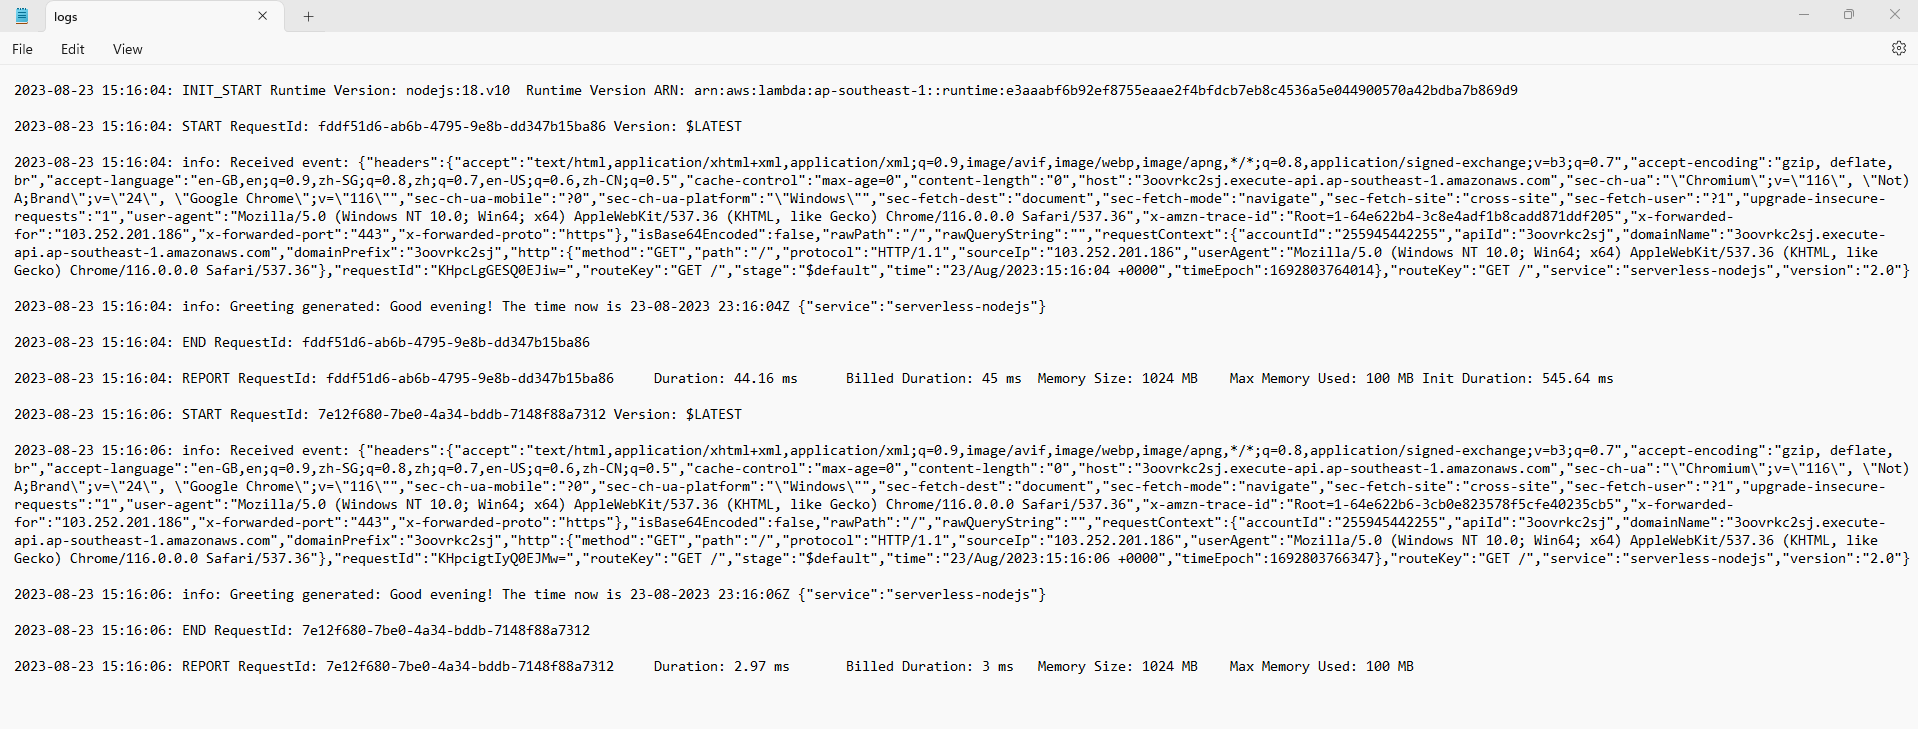
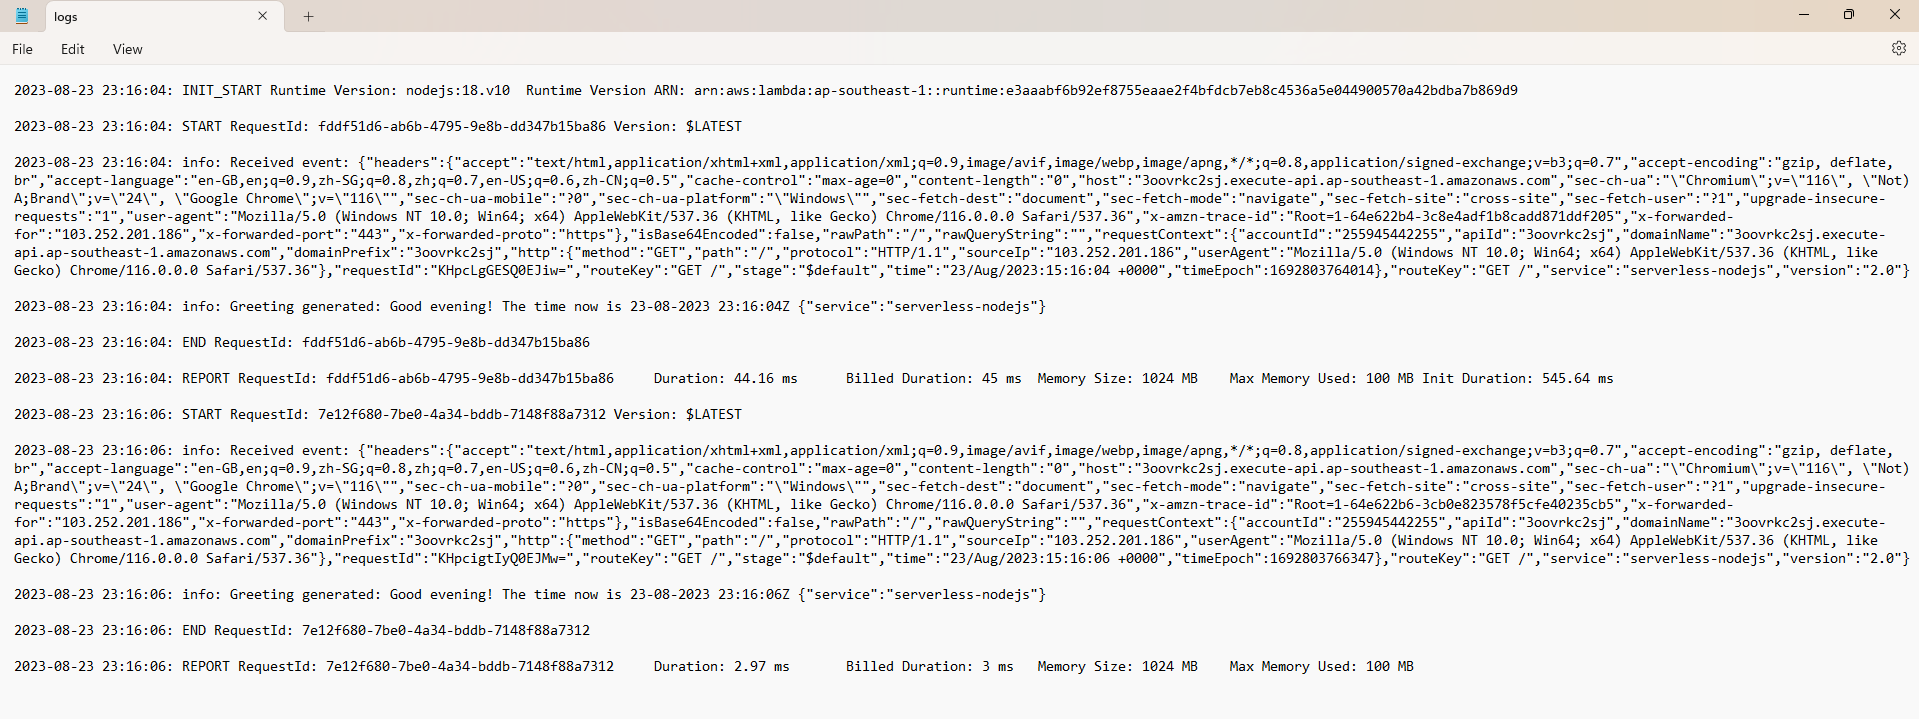
add logging

diff --git a/README.md b/README.md
@@ -387,7 +387,7 @@ aws logs get-log-events --log-group-name /aws/lambda/wengsiong-serverless-nodejs
 
 1. Alternatively, run the following command to export the logging information to a file.
 ```bash
-aws logs get-log-events --log-group-name /aws/lambda/wengsiong-serverless-nodejs-api-dev-greeting --log-stream-name '2023/08/23/[$LATEST]810e9c5a48d542f4980dd69b8e7d90eb' | jq -r '.events[] | "\( (.timestamp / 1000 | strftime("%Y-%m-%d %H:%M:%S")) ): \(.message)"' > logs.txt
+aws logs get-log-events --log-group-name /aws/lambda/wengsiong-serverless-nodejs-api-dev-greeting --log-stream-name '2023/08/23/[$LATEST]810e9c5a48d542f4980dd69b8e7d90eb' | jq -r '.events[] | "\( ((.timestamp / 1000) + (8 * 3600) | strftime("%Y-%m-%d %H:%M:%S")) ): \(.message)"' > logs.txt
 ```
 - The `jq` command is used to format the output of the `aws logs get-log-events` command, extracting the timestamp and message. The Unix timestamp is originally in milliseconds and formatted to `YYYY-MM-DD HH:MM:SS`. The formatted output is then redirected to a file named `logs.txt`. 
 
